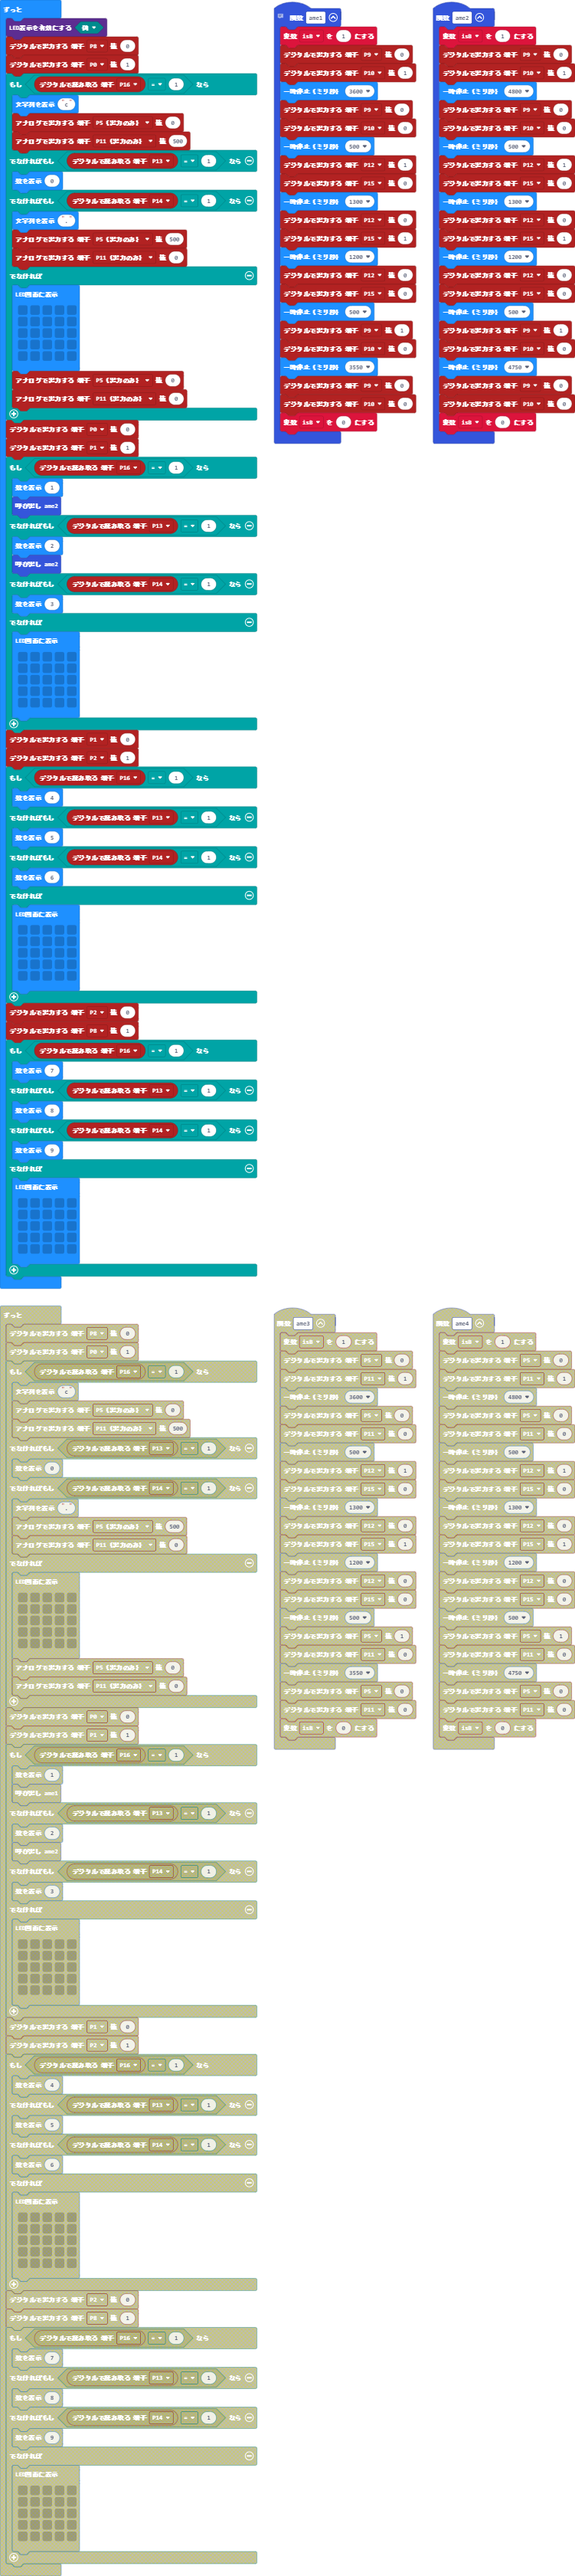
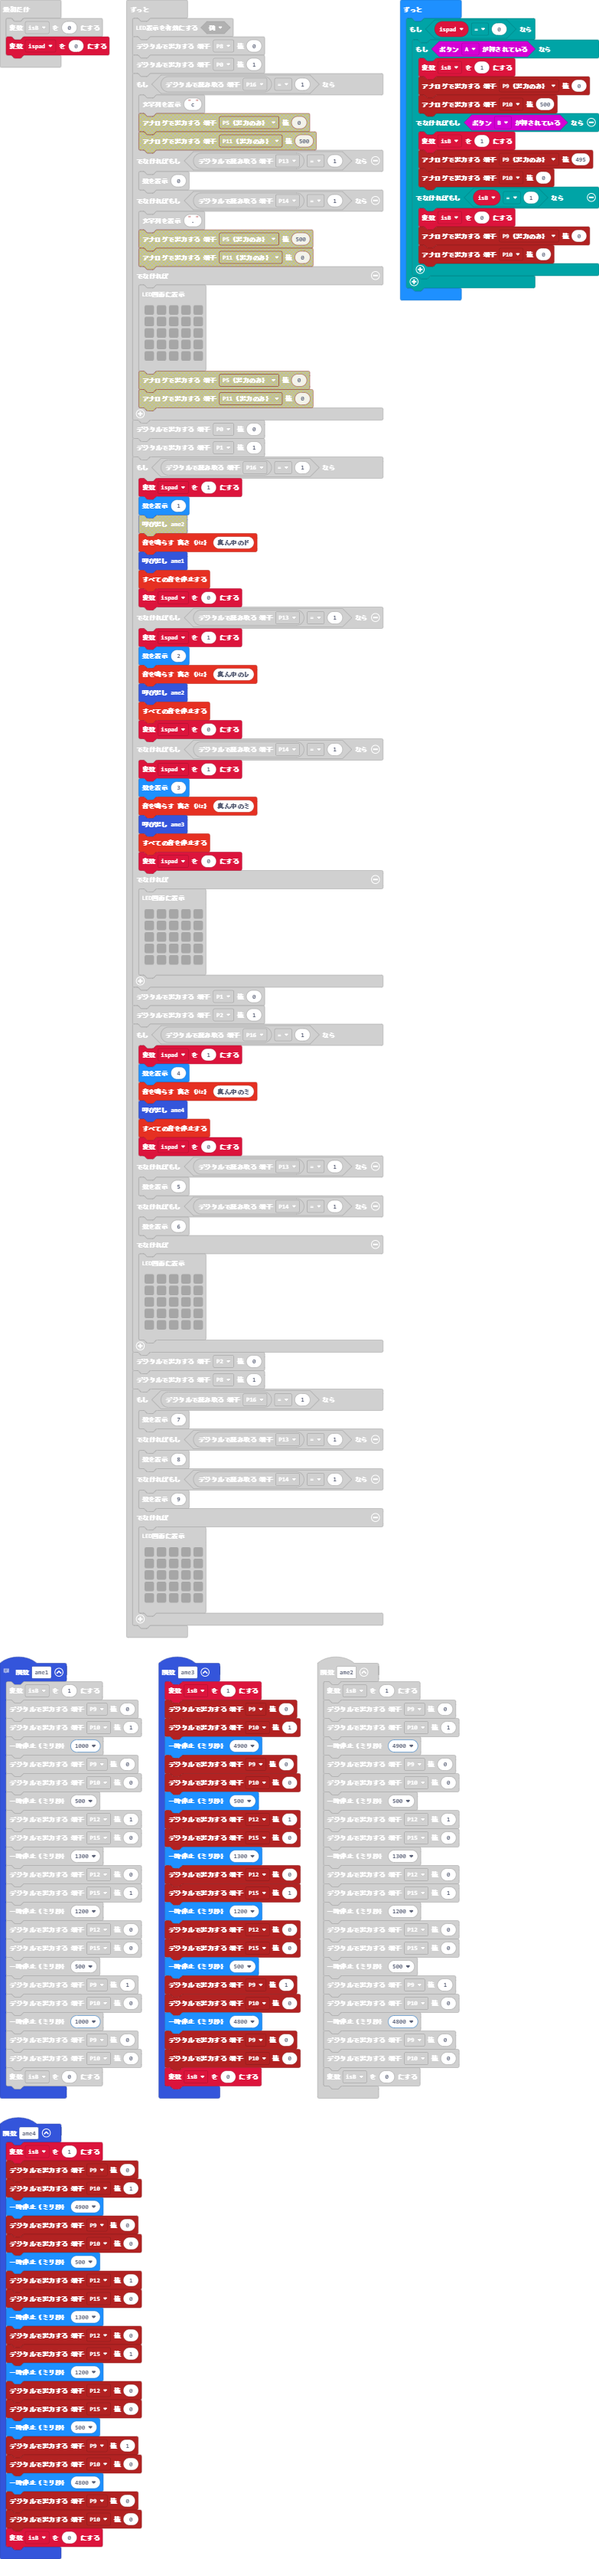
更新 main.blocks, main.ts

diff --git a/main.ts b/main.ts
@@ -1,3 +1,27 @@
+function ame3 () {
+    isB = 1
+    pins.digitalWritePin(DigitalPin.P9, 0)
+    pins.digitalWritePin(DigitalPin.P10, 1)
+    basic.pause(4900)
+    pins.digitalWritePin(DigitalPin.P9, 0)
+    pins.digitalWritePin(DigitalPin.P10, 0)
+    basic.pause(500)
+    pins.digitalWritePin(DigitalPin.P12, 1)
+    pins.digitalWritePin(DigitalPin.P15, 0)
+    basic.pause(1300)
+    pins.digitalWritePin(DigitalPin.P12, 0)
+    pins.digitalWritePin(DigitalPin.P15, 1)
+    basic.pause(1200)
+    pins.digitalWritePin(DigitalPin.P12, 0)
+    pins.digitalWritePin(DigitalPin.P15, 0)
+    basic.pause(500)
+    pins.digitalWritePin(DigitalPin.P9, 1)
+    pins.digitalWritePin(DigitalPin.P10, 0)
+    basic.pause(4800)
+    pins.digitalWritePin(DigitalPin.P9, 0)
+    pins.digitalWritePin(DigitalPin.P10, 0)
+    isB = 0
+}
 // keypad
 // 
 // pin8
@@ -27,7 +51,7 @@ function ame1 () {
     isB = 1
     pins.digitalWritePin(DigitalPin.P9, 0)
     pins.digitalWritePin(DigitalPin.P10, 1)
-    basic.pause(3600)
+    basic.pause(1000)
     pins.digitalWritePin(DigitalPin.P9, 0)
     pins.digitalWritePin(DigitalPin.P10, 0)
     basic.pause(500)
@@ -42,7 +66,31 @@ function ame1 () {
     basic.pause(500)
     pins.digitalWritePin(DigitalPin.P9, 1)
     pins.digitalWritePin(DigitalPin.P10, 0)
-    basic.pause(3550)
+    basic.pause(1000)
+    pins.digitalWritePin(DigitalPin.P9, 0)
+    pins.digitalWritePin(DigitalPin.P10, 0)
+    isB = 0
+}
+function ame4 () {
+    isB = 1
+    pins.digitalWritePin(DigitalPin.P9, 0)
+    pins.digitalWritePin(DigitalPin.P10, 1)
+    basic.pause(4900)
+    pins.digitalWritePin(DigitalPin.P9, 0)
+    pins.digitalWritePin(DigitalPin.P10, 0)
+    basic.pause(500)
+    pins.digitalWritePin(DigitalPin.P12, 1)
+    pins.digitalWritePin(DigitalPin.P15, 0)
+    basic.pause(1300)
+    pins.digitalWritePin(DigitalPin.P12, 0)
+    pins.digitalWritePin(DigitalPin.P15, 1)
+    basic.pause(1200)
+    pins.digitalWritePin(DigitalPin.P12, 0)
+    pins.digitalWritePin(DigitalPin.P15, 0)
+    basic.pause(500)
+    pins.digitalWritePin(DigitalPin.P9, 1)
+    pins.digitalWritePin(DigitalPin.P10, 0)
+    basic.pause(4800)
     pins.digitalWritePin(DigitalPin.P9, 0)
     pins.digitalWritePin(DigitalPin.P10, 0)
     isB = 0
@@ -51,7 +99,7 @@ function ame2 () {
     isB = 1
     pins.digitalWritePin(DigitalPin.P9, 0)
     pins.digitalWritePin(DigitalPin.P10, 1)
-    basic.pause(4800)
+    basic.pause(4900)
     pins.digitalWritePin(DigitalPin.P9, 0)
     pins.digitalWritePin(DigitalPin.P10, 0)
     basic.pause(500)
@@ -66,27 +114,24 @@ function ame2 () {
     basic.pause(500)
     pins.digitalWritePin(DigitalPin.P9, 1)
     pins.digitalWritePin(DigitalPin.P10, 0)
-    basic.pause(4750)
+    basic.pause(4800)
     pins.digitalWritePin(DigitalPin.P9, 0)
     pins.digitalWritePin(DigitalPin.P10, 0)
     isB = 0
 }
 let isB = 0
 isB = 0
+let ispad = 0
 basic.forever(function () {
     led.enable(false)
     pins.digitalWritePin(DigitalPin.P8, 0)
     pins.digitalWritePin(DigitalPin.P0, 1)
     if (pins.digitalReadPin(DigitalPin.P16) == 1) {
         basic.showString("c")
-        pins.analogWritePin(AnalogPin.P5, 0)
-        pins.analogWritePin(AnalogPin.P11, 500)
     } else if (pins.digitalReadPin(DigitalPin.P13) == 1) {
         basic.showNumber(0)
     } else if (pins.digitalReadPin(DigitalPin.P14) == 1) {
         basic.showString(".")
-        pins.analogWritePin(AnalogPin.P5, 500)
-        pins.analogWritePin(AnalogPin.P11, 0)
     } else {
         basic.showLeds(`
             . . . . .
@@ -95,19 +140,30 @@ basic.forever(function () {
             . . . . .
             . . . . .
             `)
-        pins.analogWritePin(AnalogPin.P5, 0)
-        pins.analogWritePin(AnalogPin.P11, 0)
     }
     pins.digitalWritePin(DigitalPin.P0, 0)
     pins.digitalWritePin(DigitalPin.P1, 1)
     if (pins.digitalReadPin(DigitalPin.P16) == 1) {
+        ispad = 1
         basic.showNumber(1)
-        ame2()
+        music.ringTone(262)
+        ame1()
+        music.stopAllSounds()
+        ispad = 0
     } else if (pins.digitalReadPin(DigitalPin.P13) == 1) {
+        ispad = 1
         basic.showNumber(2)
+        music.ringTone(294)
         ame2()
+        music.stopAllSounds()
+        ispad = 0
     } else if (pins.digitalReadPin(DigitalPin.P14) == 1) {
+        ispad = 1
         basic.showNumber(3)
+        music.ringTone(330)
+        ame3()
+        music.stopAllSounds()
+        ispad = 0
     } else {
         basic.showLeds(`
             . . . . .
@@ -120,7 +176,12 @@ basic.forever(function () {
     pins.digitalWritePin(DigitalPin.P1, 0)
     pins.digitalWritePin(DigitalPin.P2, 1)
     if (pins.digitalReadPin(DigitalPin.P16) == 1) {
+        ispad = 1
         basic.showNumber(4)
+        music.ringTone(330)
+        ame4()
+        music.stopAllSounds()
+        ispad = 0
     } else if (pins.digitalReadPin(DigitalPin.P13) == 1) {
         basic.showNumber(5)
     } else if (pins.digitalReadPin(DigitalPin.P14) == 1) {
@@ -150,5 +211,22 @@ basic.forever(function () {
             . . . . .
             . . . . .
             `)
+    }
+})
+basic.forever(function () {
+    if (ispad == 0) {
+        if (input.buttonIsPressed(Button.A)) {
+            isB = 1
+            pins.analogWritePin(AnalogPin.P9, 0)
+            pins.analogWritePin(AnalogPin.P10, 500)
+        } else if (input.buttonIsPressed(Button.B)) {
+            isB = 1
+            pins.analogWritePin(AnalogPin.P9, 495)
+            pins.analogWritePin(AnalogPin.P10, 0)
+        } else if (isB == 1) {
+            isB = 0
+            pins.analogWritePin(AnalogPin.P9, 0)
+            pins.analogWritePin(AnalogPin.P10, 0)
+        }
     }
 })
